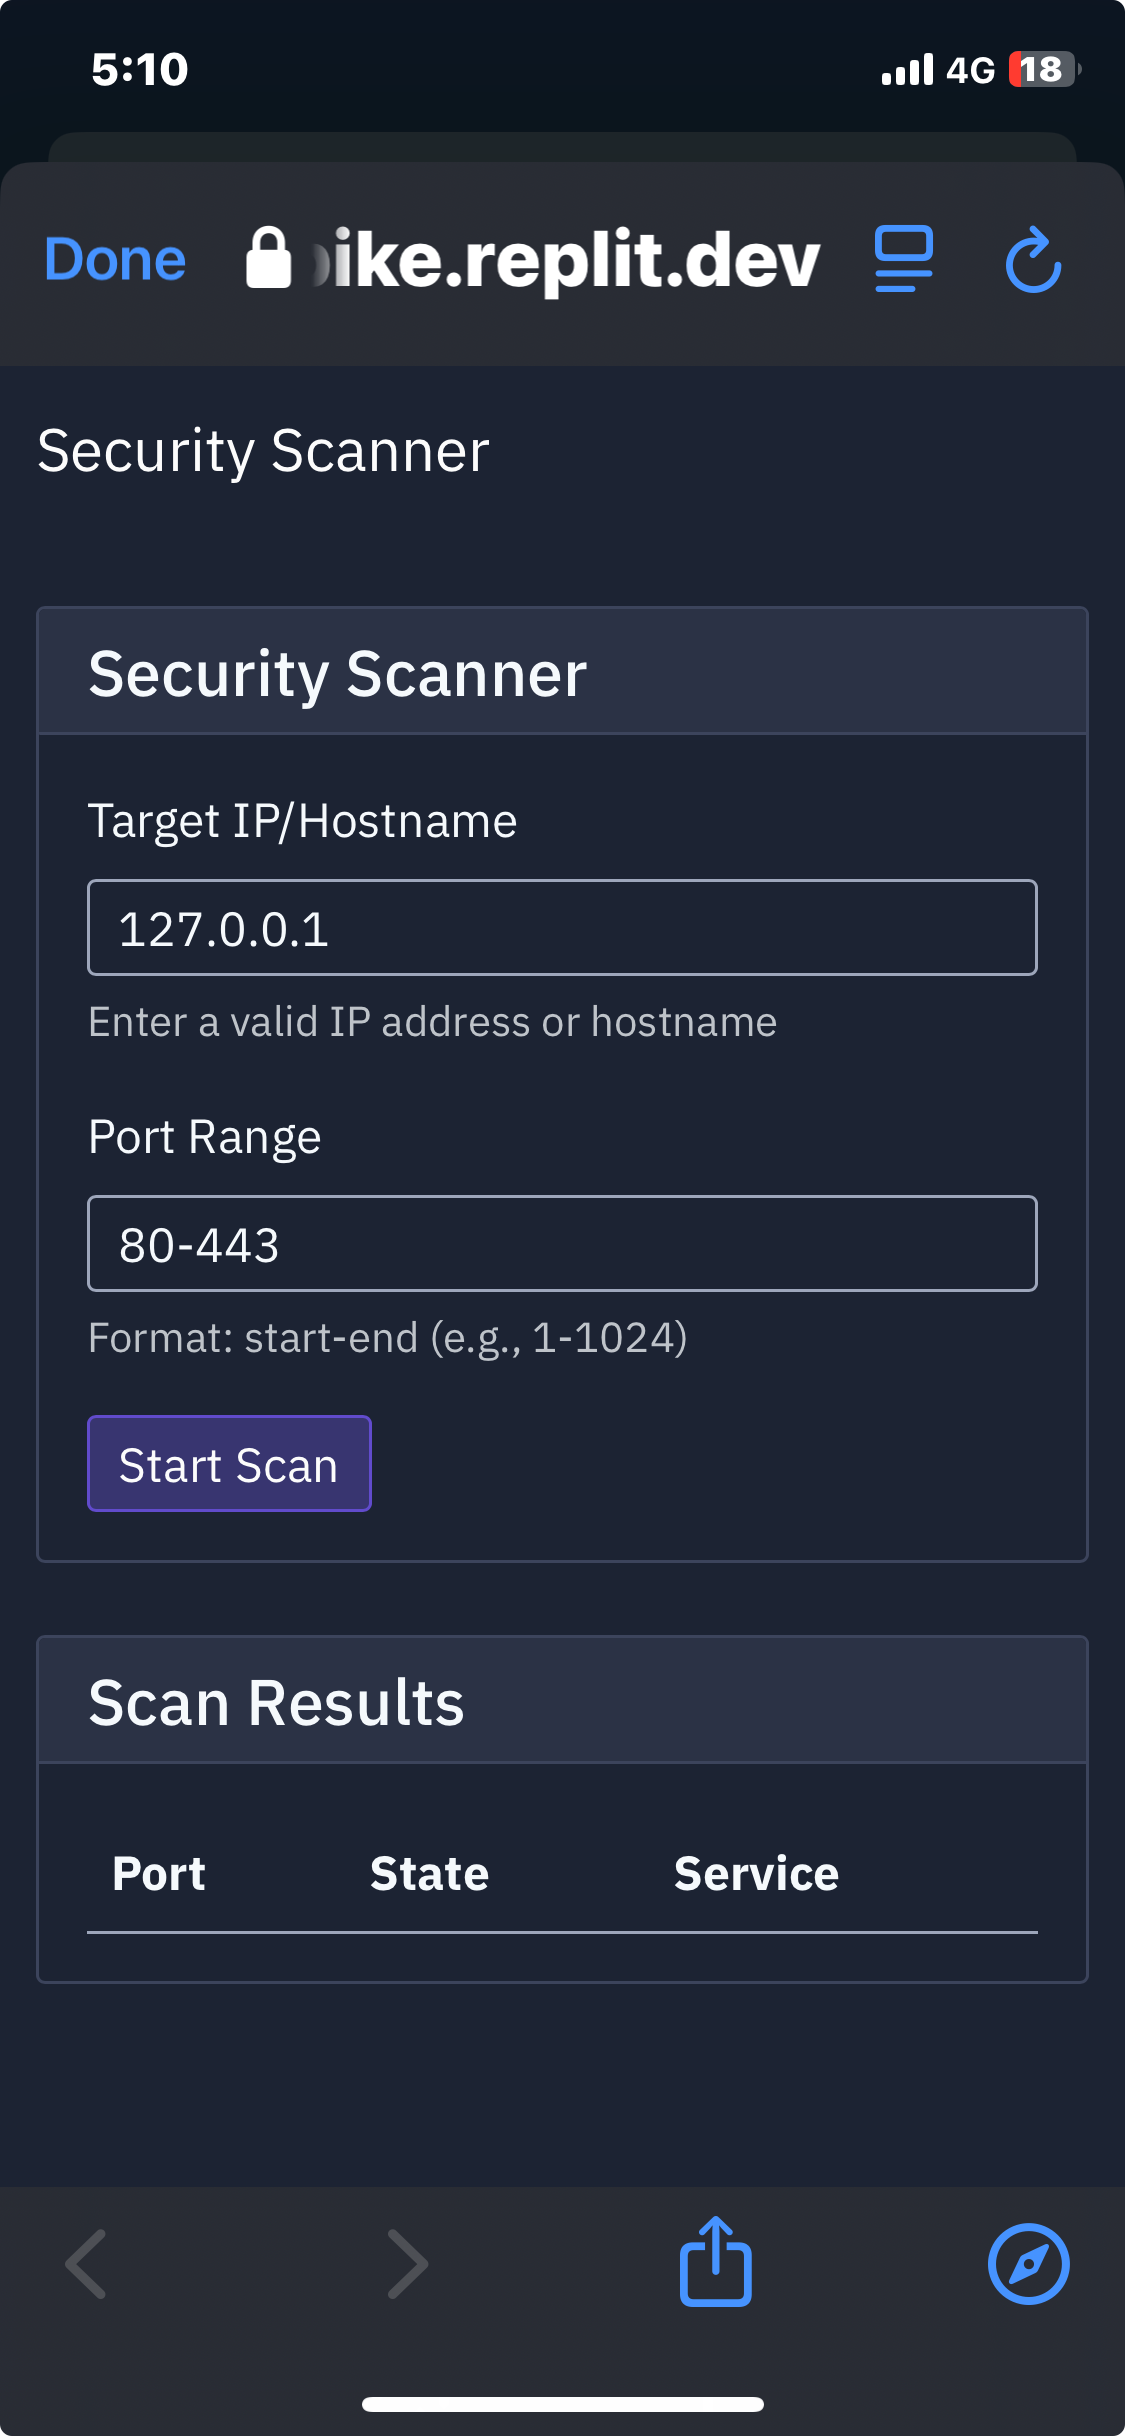
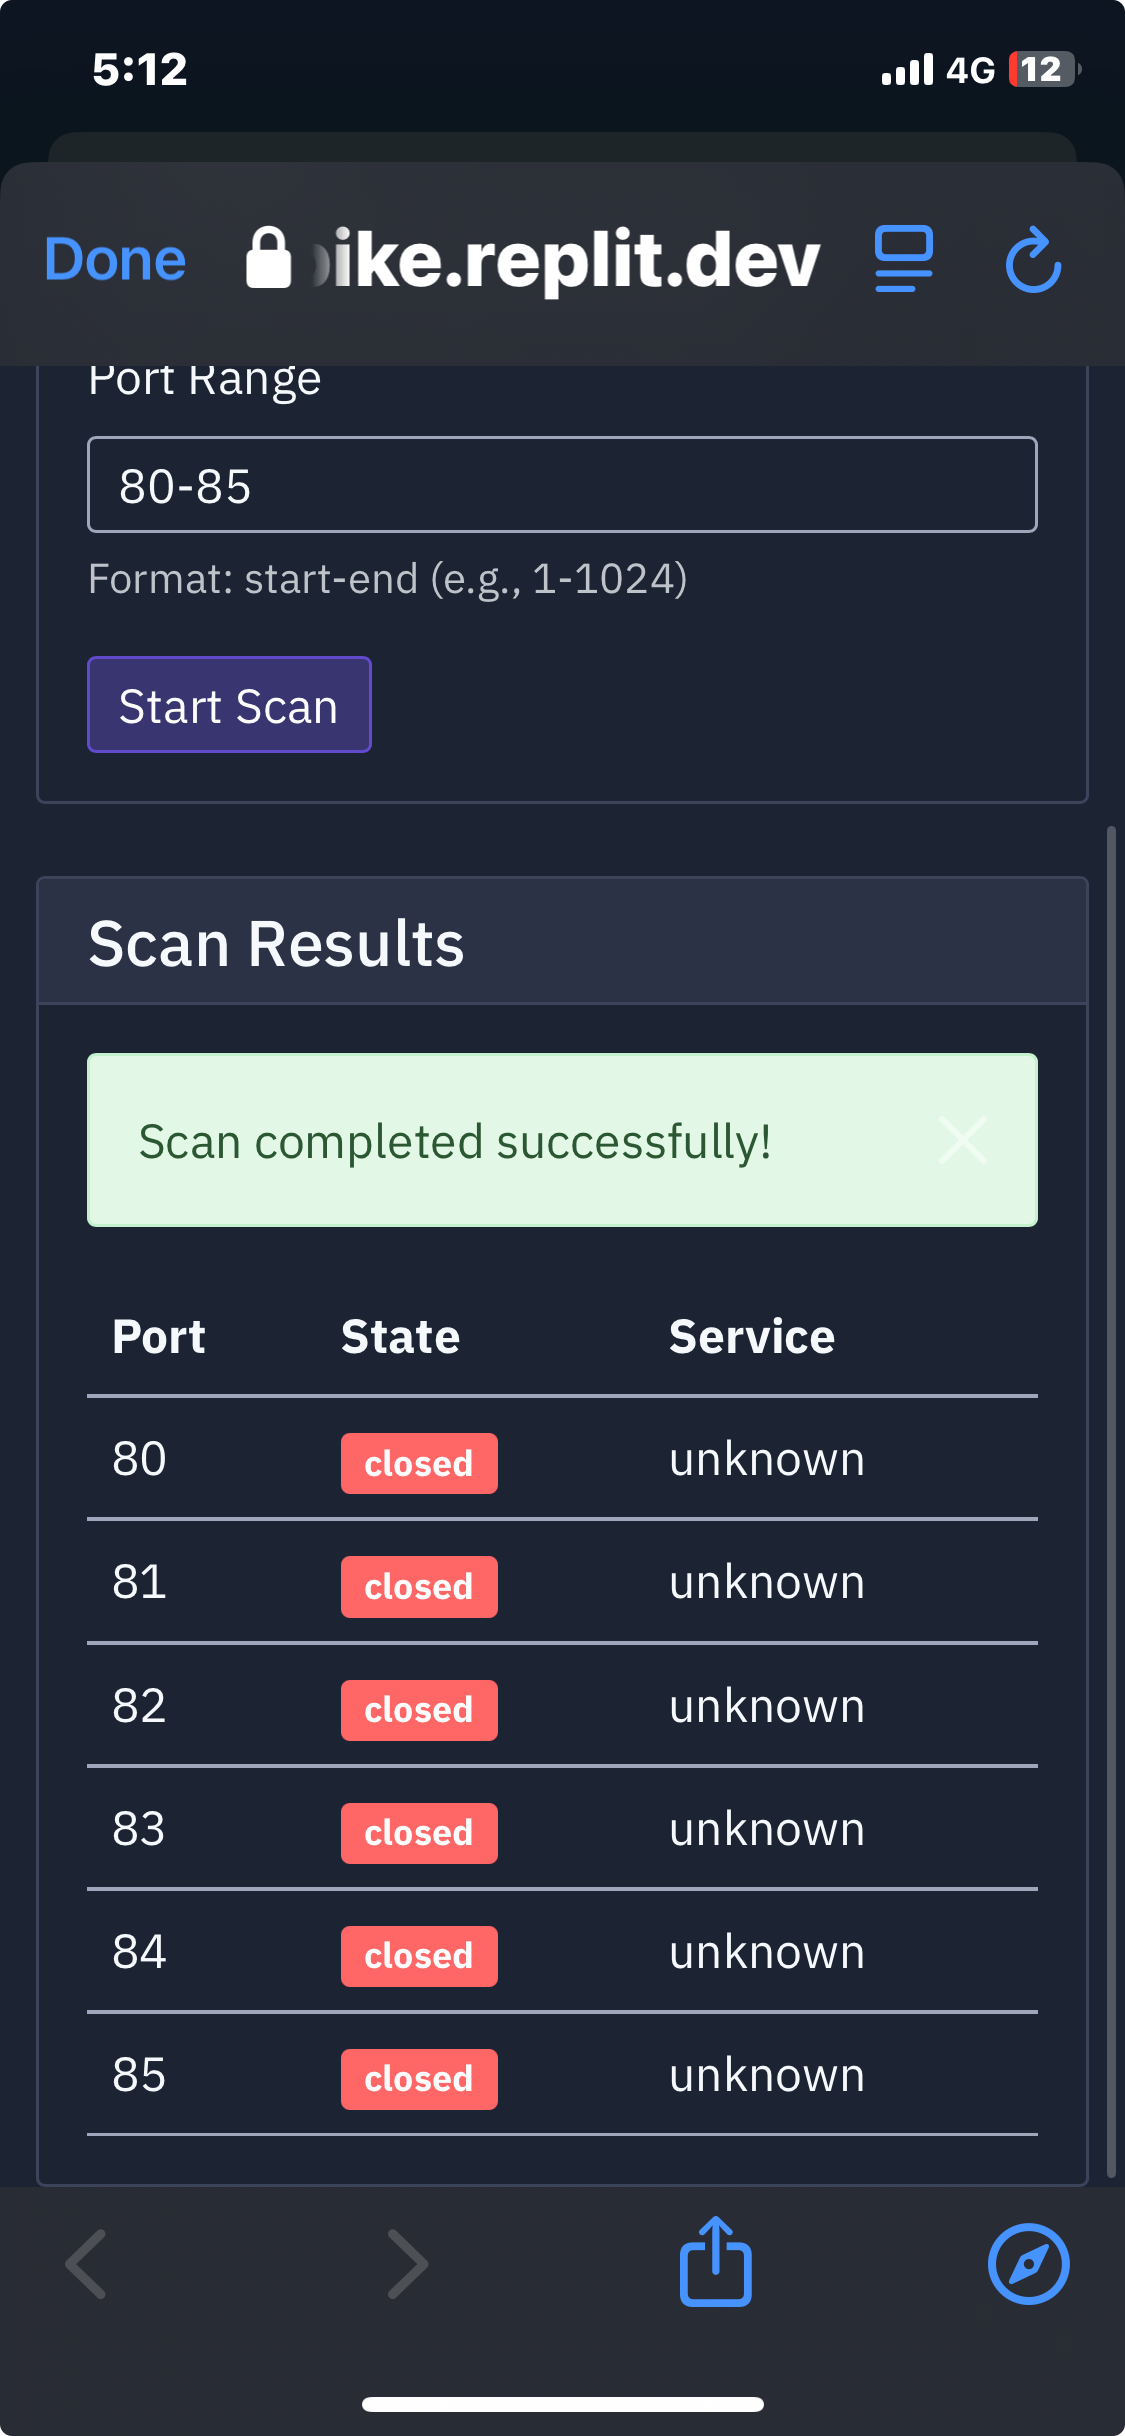
Agent query: Can you try scanning again with port range '80-85'? The scan should be faster now and provide more detailed service information when available.
Improve port scanner with faster timeout, expanded port list, and basic service detection.

Screenshot: https://storage.googleapis.com/screenshot-production-us-central1/80759536-ea25-4089-b397-35d87741b048/f199b341-11af-4b32-9318-b03d2b74162c.jpg

diff --git a/core/scanner.py b/core/scanner.py
@@ -20,8 +20,19 @@ async def validate_target(target: str) -> bool:
 async def scan_port(target: str, port: int) -> Dict:
     """Scan a single port."""
     try:
+        # Use a shorter timeout for faster scans
         sock = socket.socket(socket.AF_INET, socket.SOCK_STREAM)
-        sock.settimeout(1)
+        sock.settimeout(0.5)
+        
+        # Common ports and their services
+        common_ports = {
+            20: "ftp-data", 21: "ftp", 22: "ssh", 23: "telnet",
+            25: "smtp", 53: "dns", 80: "http", 110: "pop3",
+            143: "imap", 443: "https", 465: "smtps", 587: "submission",
+            993: "imaps", 995: "pop3s", 3306: "mysql", 5432: "postgresql",
+            8080: "http-alt", 8443: "https-alt", 27017: "mongodb"
+        }
+        
         result = sock.connect_ex((target, port))
         sock.close()
         
@@ -30,19 +41,20 @@ async def scan_port(target: str, port: int) -> Dict:
             try:
                 service = socket.getservbyport(port)
             except (OSError, socket.error):
-                # Common ports and their services
-                common_ports = {
-                    80: "http",
-                    443: "https",
-                    22: "ssh",
-                    21: "ftp",
-                    25: "smtp",
-                    110: "pop3",
-                    143: "imap",
-                    3306: "mysql",
-                    5432: "postgresql"
-                }
                 service = common_ports.get(port, "unknown")
+                
+            # Try to get additional info for HTTP/HTTPS ports
+            if service in ["http", "https", "http-alt", "https-alt"]:
+                try:
+                    protocol = "https" if service in ["https", "https-alt"] else "http"
+                    with socket.create_connection((target, port), timeout=1) as s:
+                        s.send(f"HEAD / HTTP/1.1\r\nHost: {target}\r\n\r\n".encode())
+                        response = s.recv(1024).decode()
+                        if "Server:" in response:
+                            server = response.split("Server:", 1)[1].split("\r\n")[0].strip()
+                            service = f"{service} ({server})"
+                except:
+                    pass
         
         return {
             "port": port,
